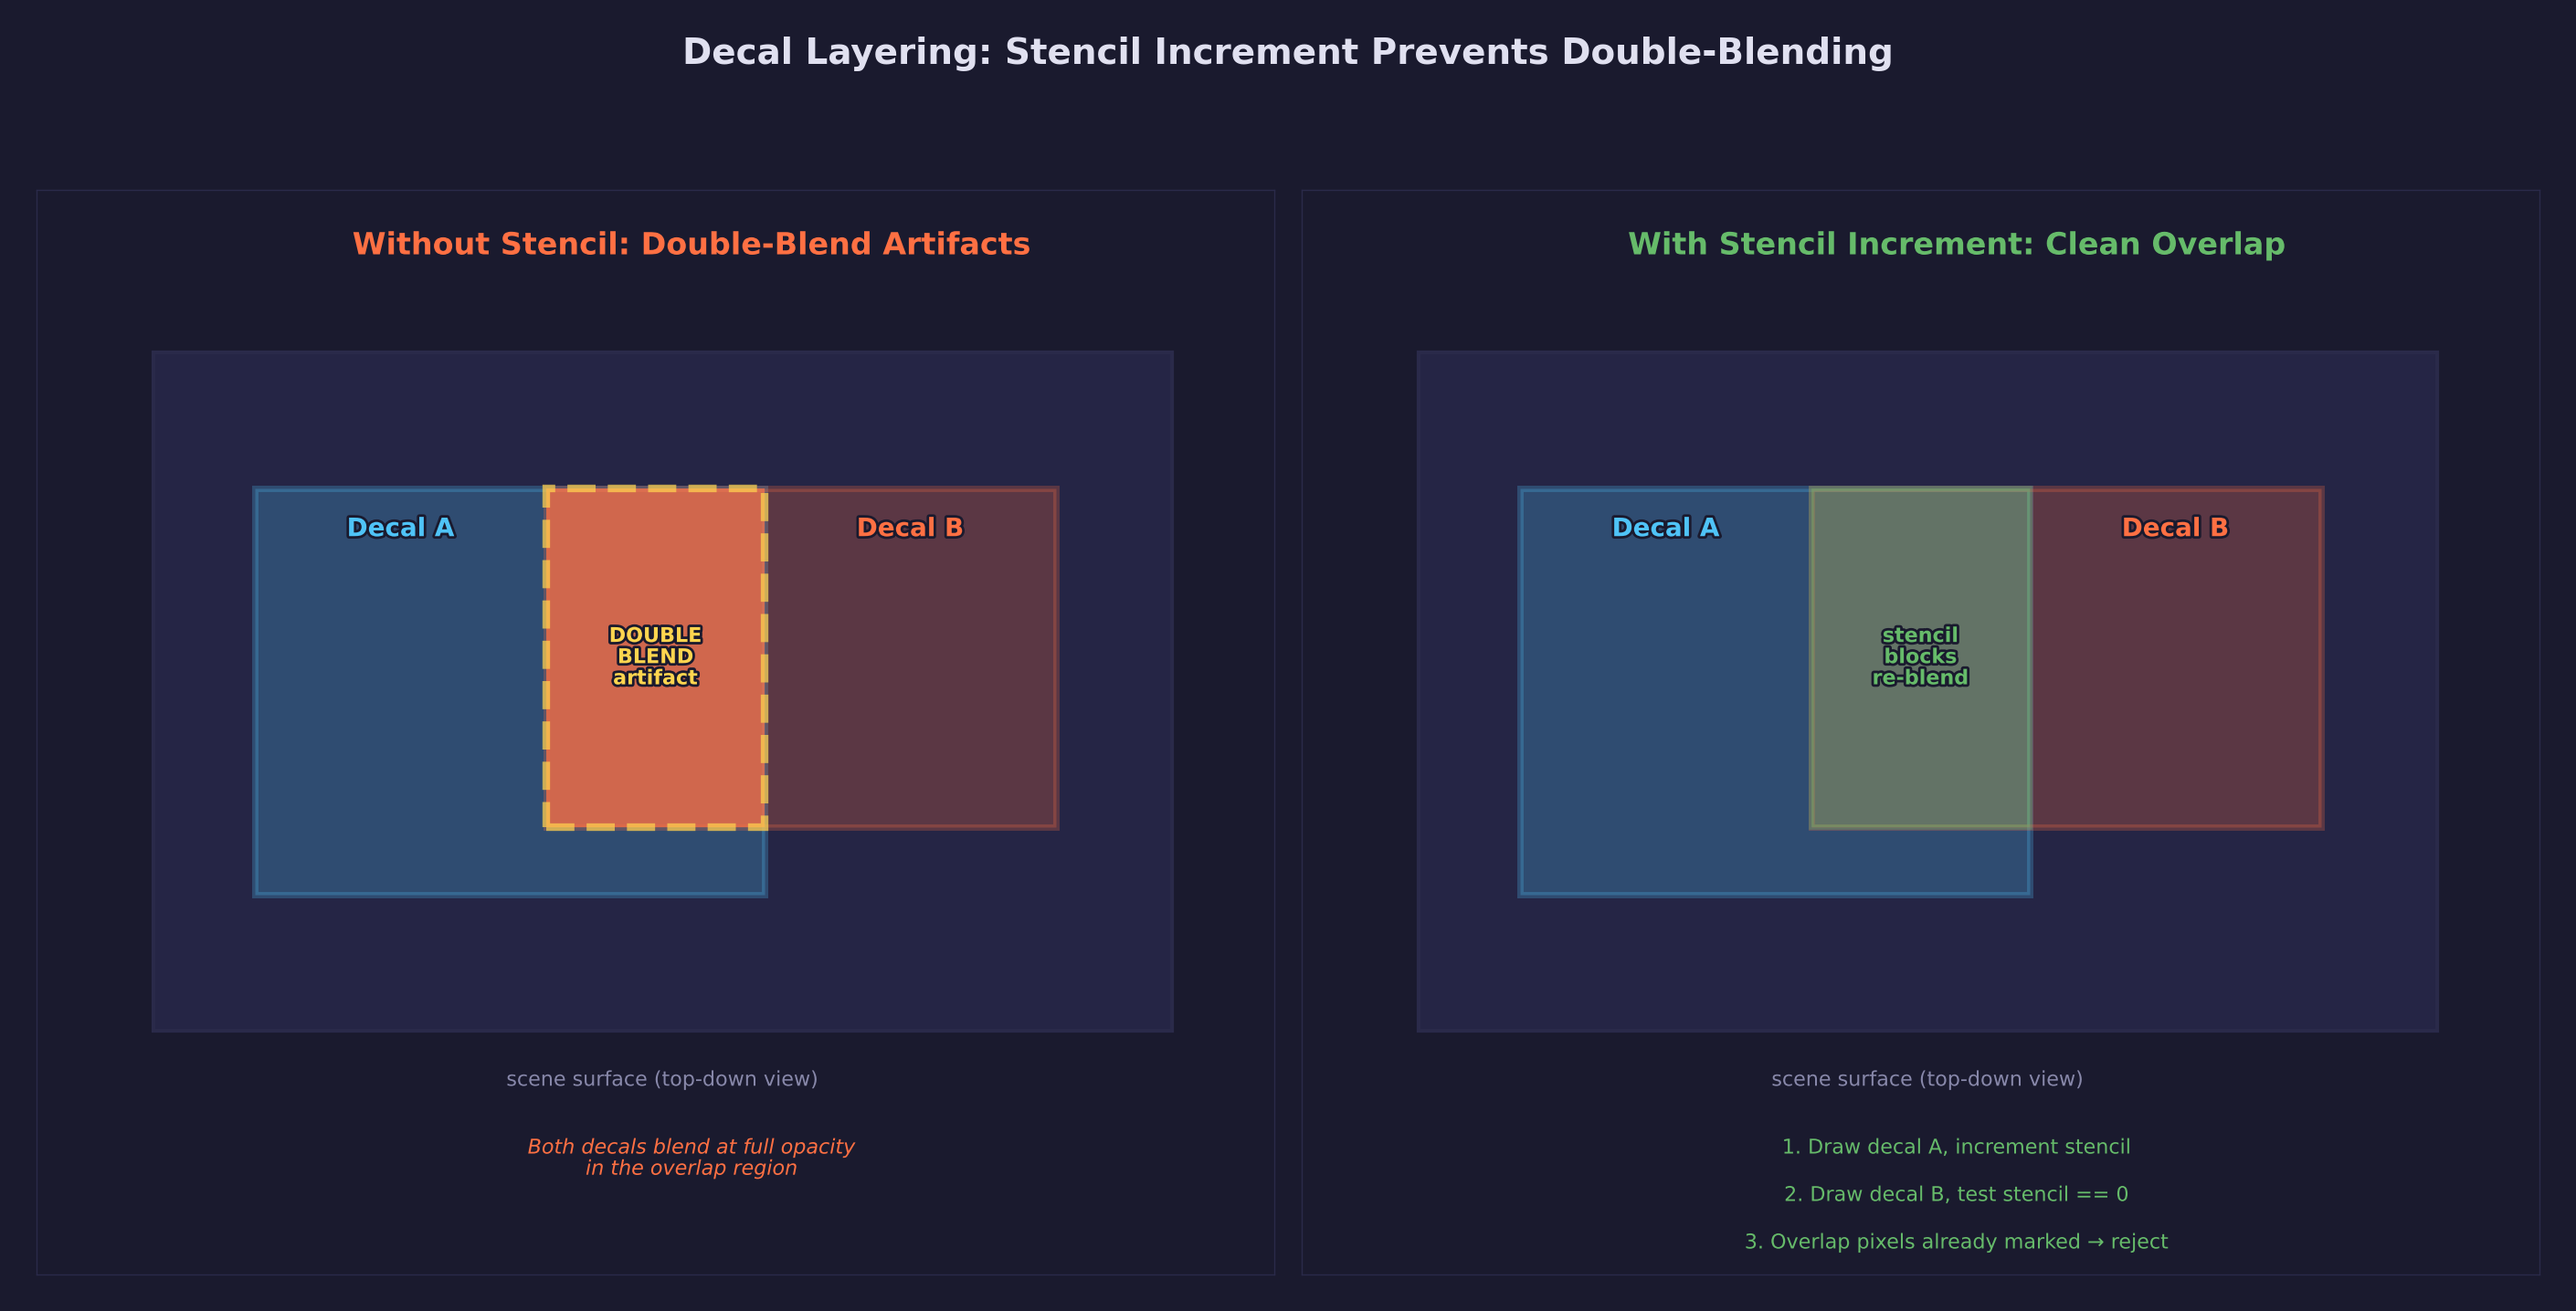
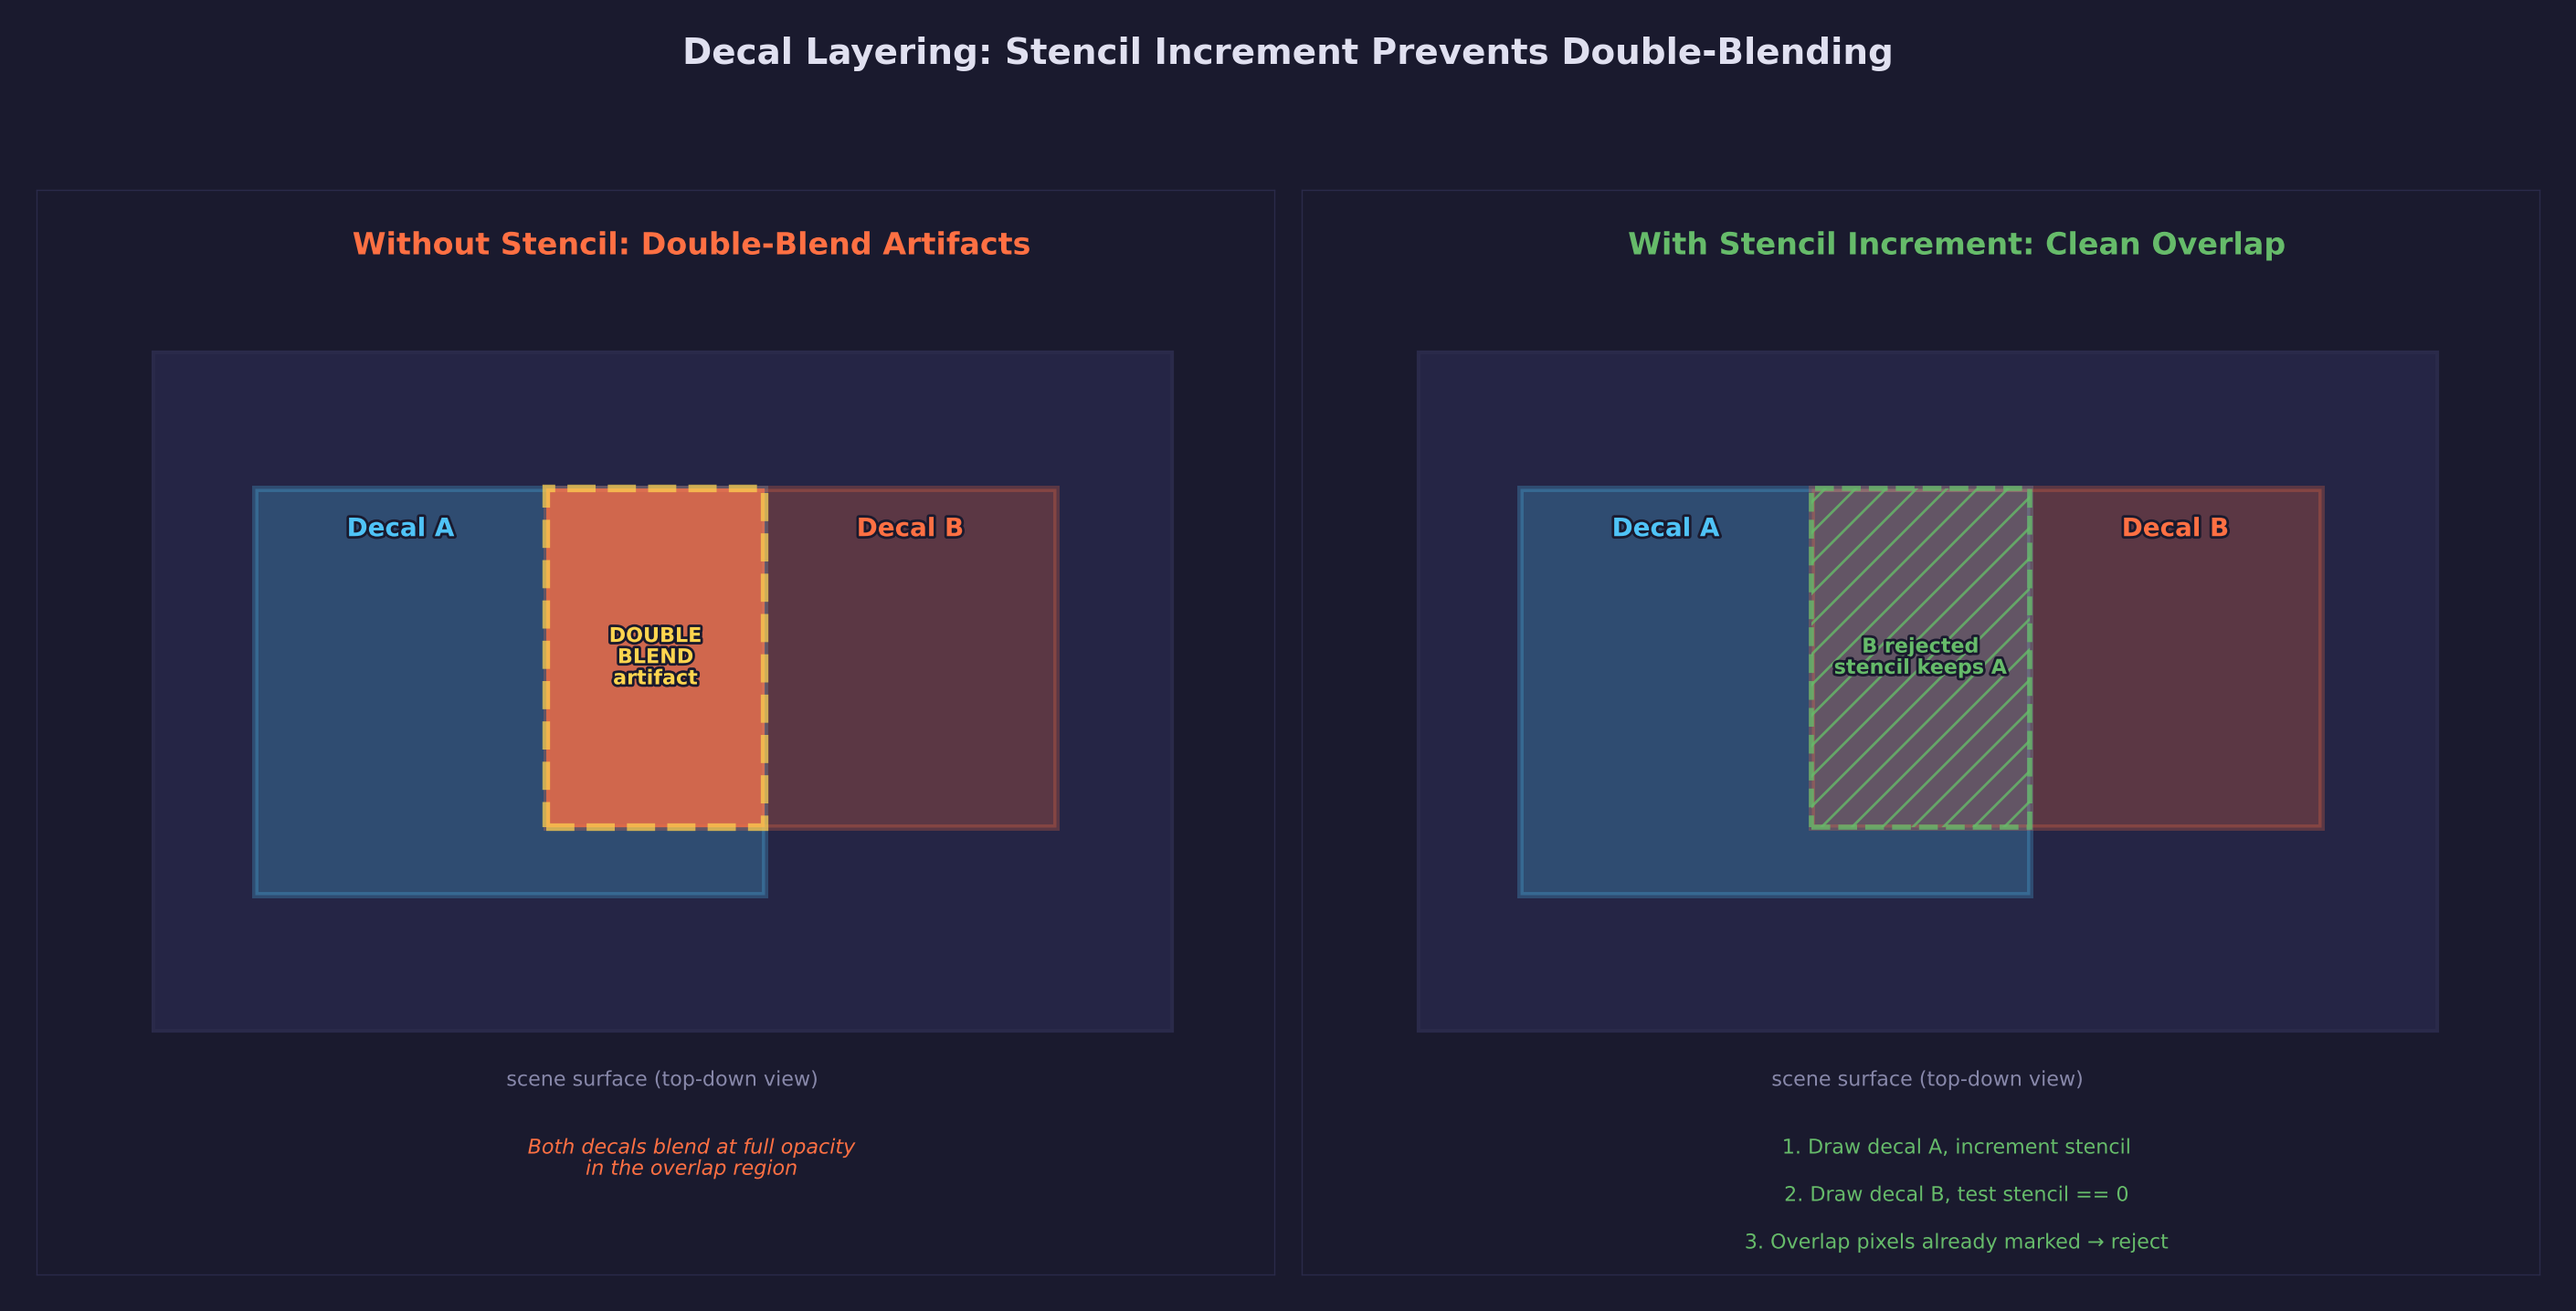
Address PR #185 round 5 feedback: diagrams, README, SKILL.md
Diagram fixes:
- Fix proj_dx sign (+sin_t for OBB local -Y axis)
- Add "Clip Position" stage to depth reconstruction diagram
- Stencil overlap: transparent hatched "B rejected" instead of filled green
- Increased ray marcher precision (200 steps at 0.02)

README fixes:
- "front-face culling (CULL_FRONT)" not "back-face culling"
- "Suzanne meshes" not "cubes" throughout
- Shape texture sampled via alpha channel (.a) not red (.r)
- "What's next" link removed (L36 doesn't exist yet)

SKILL.md fixes:
- Shadow/Scene depth test: LESS (not LESS_OR_EQUAL) to match main.c
- Decal dst_alpha_blendfactor: ZERO to match main.c

Changed region(s): [[0.6865, 0.3677, 0.8113, 0.6435]]

diff --git a/scripts/forge_diagrams/gpu_diagrams.py b/scripts/forge_diagrams/gpu_diagrams.py
@@ -17737,7 +17737,7 @@ def diagram_decal_box_projection():
     n_rays = 7
     ray_xs = np.linspace(-box_hw + 0.15, box_hw - 0.15, n_rays)
     # OBB local Y direction (projection axis) rotated into world space
-    proj_dx = -sin_t  # world X component of local -Y direction
+    proj_dx = sin_t  # world X component of local -Y direction
     proj_dy = -cos_t  # world Y component of local -Y direction
     for rx in ray_xs:
         # Ray origin at top of box in OBB local coords, rotated to world
@@ -17937,11 +17937,12 @@ def diagram_decal_depth_reconstruction():
 
     # Pipeline stages
     stages = [
-        (2.0, "Screen UV", STYLE["text_dim"], "(frag_pos / resolution)"),
-        (5.5, "Depth Sample", STYLE["accent4"], "texture(depth_tex, uv)"),
-        (9.0, "NDC Position", STYLE["accent1"], "xy: uv*2-1, y-flip\nz: depth"),
-        (12.8, "inv(VP) Multiply", STYLE["accent2"], "inv_vp * ndc_pos"),
-        (16.2, "World Position", STYLE["accent3"], "result.xyz / result.w"),
+        (1.5, "Screen UV", STYLE["text_dim"], "(frag_pos / resolution)"),
+        (4.5, "Depth Sample", STYLE["accent4"], "texture(depth_tex, uv)"),
+        (7.5, "NDC Position", STYLE["accent1"], "xy: uv*2-1, y-flip\nz: depth"),
+        (10.5, "Clip Position", STYLE["accent1"], "float4(ndc_xy,\n depth, 1.0)"),
+        (13.5, "inv(VP) Multiply", STYLE["accent2"], "inv_vp * clip_pos"),
+        (16.5, "World Position", STYLE["accent3"], "result.xyz / result.w"),
     ]
 
     y_center = 2.8
@@ -18800,22 +18801,24 @@ def diagram_decal_layering():
         overlap_h = 2.5  # intersection height
 
         if has_stencil:
-            # Clean overlap — stencil prevents double-blending
+            # Clean overlap — stencil rejects B, keeps A's appearance
             overlap = Rectangle(
                 (overlap_x, overlap_y),
                 overlap_w,
                 overlap_h,
-                facecolor=STYLE["accent3"],
+                facecolor="none",
                 edgecolor=STYLE["accent3"],
                 linewidth=2,
-                alpha=0.3,
+                linestyle="--",
+                hatch="//",
+                alpha=0.8,
                 zorder=4,
             )
             ax.add_patch(overlap)
             ax.text(
                 overlap_x + overlap_w / 2,
                 overlap_y + overlap_h / 2,
-                "stencil\nblocks\nre-blend",
+                "B rejected\nstencil keeps A",
                 color=STYLE["accent3"],
                 fontsize=8,
                 fontweight="bold",

diff --git a/lessons/gpu/35-decals/README.md b/lessons/gpu/35-decals/README.md
@@ -11,19 +11,19 @@
 - Deferred decal projection using oriented bounding boxes (OBBs)
 - Inverse depth reconstruction to obtain world positions from the depth buffer
 - Three-pass rendering: shadow, scene, decals
-- Alpha blending with back-face culling for robust decal visibility
+- Front-face culling (`CULL_FRONT`) for robust decal visibility inside volumes
 - Procedural texture generation for decal shapes (circle, heart, star, and more)
 
 ## Result
 
 ![Lesson 35 screenshot](assets/screenshot.png)
 
-A procedural grid floor and colored cubes sit under directional lighting with
+A procedural grid floor and Suzanne meshes sit under directional lighting with
 shadow mapping. Projected onto the scene surfaces are decals of various shapes
 — circles, hearts, stars, checkerboards, rings, diamonds, crosses, and
 triangles — each generated procedurally as a texture. The decals conform to
-whatever geometry they overlap, bending across cube faces and floor surfaces
-without any UV seams or mesh modifications.
+whatever geometry they overlap, bending across Suzanne's curved surfaces and
+the floor without any UV seams or mesh modifications.
 
 ## Key concepts
 
@@ -180,9 +180,9 @@ shape is defined by a distance function evaluated at every texel:
 | Triangle | Half-plane intersection |
 
 The distance value is passed through a smoothstep to produce antialiased edges.
-The result is a single-channel alpha texture uploaded to the GPU. The decal
-fragment shader samples this texture and multiplies the alpha by the decal's
-color to produce the final blended output.
+The result is stored in the alpha channel of an RGBA texture uploaded to the
+GPU. The decal fragment shader samples the texture's alpha channel and
+multiplies it by the decal's tint color to produce the final blended output.
 
 ## Render pass architecture
 
@@ -203,13 +203,13 @@ the scene pass for shadow testing.
 ### Pass 2: Scene
 
 The main scene renders to the swapchain color texture and a separate
-`D24_UNORM_S8_UINT` depth texture. Both are cleared at the start. Cubes and
-the grid floor are drawn with Blinn-Phong lighting and shadow sampling. The
+`D24_UNORM_S8_UINT` depth texture. Both are cleared at the start. Suzanne meshes
+and the grid floor are drawn with Blinn-Phong lighting and shadow sampling. The
 depth texture is stored (not discarded) because the decal pass needs it.
 
 - Color target: swapchain texture, CLEAR + STORE
 - Depth-stencil: scene depth `D24_UNORM_S8_UINT`, CLEAR + STORE
-- Cull mode: BACK (cubes), NONE (grid)
+- Cull mode: BACK (Suzannes), NONE (grid)
 
 ### Pass 3: Decals
 
@@ -261,7 +261,7 @@ float4 frag_main(VSOutput input) : SV_Target0
 
     /* 6. Map local XZ to decal UV; sample shape texture; apply fade */
     float2 decal_uv = local.xz + 0.5;
-    float shape = shape_texture.Sample(shape_sampler, decal_uv).r;
+    float shape = shape_texture.Sample(shape_sampler, decal_uv).a;
     float fade = smoothstep(0.0, FADE_EDGE, 0.5 - abs(local.x))
                * smoothstep(0.0, FADE_EDGE, 0.5 - abs(local.y))
                * smoothstep(0.0, FADE_EDGE, 0.5 - abs(local.z));
@@ -357,10 +357,10 @@ projection techniques are needed in your project.
 
 ## What's next
 
-[Lesson 36 — Edge Detection & X-Ray](../36-edge-detection/) explores
-post-process techniques that read from depth and normal buffers to detect
-edges and reveal occluded geometry. It builds on the same depth-buffer-as-input
-pattern used here for decal projection.
+Lesson 36 — Edge Detection & X-Ray (coming soon) will explore post-process
+techniques that read from depth and normal buffers to detect edges and reveal
+occluded geometry, building on the same depth-buffer-as-input pattern used here
+for decal projection.
 
 ## Exercises
 

diff --git a/.claude/skills/forge-decals/SKILL.md b/.claude/skills/forge-decals/SKILL.md
@@ -72,8 +72,8 @@ sampler in the decal pass will fail or produce undefined results.
 
 | Pipeline | Cull mode | Depth test | Depth write | Blend | Purpose |
 |----------|-----------|------------|-------------|-------|---------|
-| Shadow | `BACK` | Yes (`LESS_OR_EQUAL`) | Yes | None | Depth-only shadow map |
-| Scene | `BACK` | Yes (`LESS_OR_EQUAL`) | Yes | None | Color + depth for lit geometry |
+| Shadow | `BACK` | Yes (`LESS`) | Yes | None | Depth-only shadow map |
+| Scene | `BACK` | Yes (`LESS`) | Yes | None | Color + depth for lit geometry |
 | Grid | `NONE` | Yes (`LESS_OR_EQUAL`) | Yes | None | Ground grid contributing to scene depth |
 | Decal | `FRONT` | No | No | Alpha blend | Projected decal volumes |
 
@@ -100,7 +100,7 @@ decal_pi.target_info.color_target_descriptions[0].blend_state = (SDL_GPUColorTar
     .dst_color_blendfactor = SDL_GPU_BLENDFACTOR_ONE_MINUS_SRC_ALPHA,
     .color_blend_op        = SDL_GPU_BLENDOP_ADD,
     .src_alpha_blendfactor = SDL_GPU_BLENDFACTOR_ONE,
-    .dst_alpha_blendfactor = SDL_GPU_BLENDFACTOR_ONE_MINUS_SRC_ALPHA,
+    .dst_alpha_blendfactor = SDL_GPU_BLENDFACTOR_ZERO,
     .alpha_blend_op         = SDL_GPU_BLENDOP_ADD,
     .color_write_mask       = 0xF,
 };
